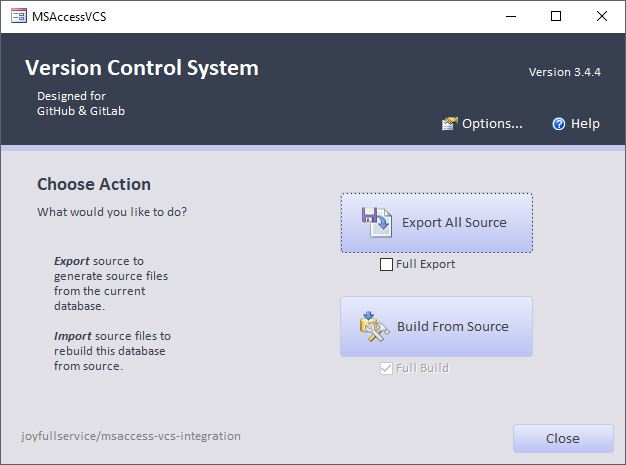
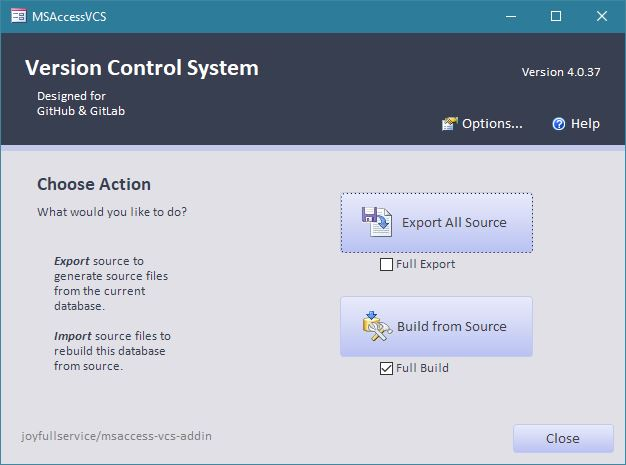
Update Wiki (#550)
* Update Wiki and screenshots to match current released version and add options.

* Add documentation for external database connections.

* Add MOTW note.

* Add missed checkboxes and details.

diff --git a/Wiki/Options.md b/Wiki/Options.md
@@ -1,5 +1,5 @@
 
-click **Options** to open the **Options dialog**. Internally options are stored in a `vcs-options.json` file in the path of the exported source code. Options are loaded and used when exporting to source files, or when building a project from source.
+Click **Options** to open the **Options dialog**. Internally options are stored in a `vcs-options.json` file in the path of the exported source code. Options are loaded and used when exporting to source files, or when building a project from source.
 
 ## General Tab
 ![General Options Tab](img/options-general.jpg)
@@ -32,29 +32,72 @@ Note that these options only determine what is *Exported* and saved to the JSON 
 ||*Absolute Path* |You may also use a full path name to a folder. I.e. `W:\Git\Projects\Vehicles Database` 
 ||*Placeholder* |In combination with the above options, you may also use a `%dbName%` [placeholder](https://github.com/joyfullservice/msaccess-vcs-integration/issues/139) to use the database filename in a custom path. I.e. `\src\%dbName%.src\`
 |**Use Fast Save**|**Default: On**|Major performance gain with small changes to large projects. This attempts to only export the objects that have changed since the last export. This especially helps to not have to export forms and reports if they have not changed.
-|**Sanitize Level**|**Default: Aggressive**|Set level for sanitize routines to remove noise. Sanitizing allows you to remove noise from your exported files. Turn off to export raw file outputs. Sanitization routines are checked to ensure most do not affect building of exported files.
-||*None (Off)* | Turn off sanitization, export raw files. These may not import properly, but they may be useful when trying to troubleshoot. <p>_**Note:** Files will still be converted to UTF-8 or System Codepage encoding depending on Access Version in this mode._ <p>**_NOTE:_ If you set Sanitize level to "*None (Off)*", none of the Sanitize Options (Sanitize Color, Strip out publish, etc.) will be used.**
-||*Basic*| Only basic sanitization to ensure reliable rebuilding of files.
-|| *Aggressive*| Remove most exported noise (GUIDs, the like). Removes object GUIDs, name maps, and other data that changes from build to build. (These values are recreated automatically when importing source files.) From a development perspective, these are more like binary artifacts that just add noise to the version control commits, reducing clarity on actual code changes.
-||*Advanced (Beta)*|Remove as much as possible. This may lead to unexpected changes upon rebuilding. Features that are still in testing or confirmed to be temperamental may be introduced here prior to being implemented. **_User beware!_**<p>
-|**Sanitize Colors**|**Default: Basic**|Removes color exports on forms where themes are used, or other situations where the color can be correctly set upon rebuild. These colors export differently in different machines, or different settings and are largely noise. <P> ***NOTE:* The most aggressive options may lead to unexpected color changes on forms!**
-|**Strip out Publish Option**|**Default: On**|Strips out some *Publish to Web* settings from source files that are irrelevant to most projects.
+|**Extract Theme Files**|**Default: Off**|Extract the contents of the `*.thmx` files. Microsoft Office Theme files `*.thmx` are actually zip files containing XML and other files that define the specifics of a theme. You can use Theme Files for form style and color consistency. If you are customizing a theme, you may wish to extract these files so your changes can be tracked in Version Control. <p> **_Note:_** _Extracting Theme files may create noise in your database due to slight variations in rendering machine to machine._
+|**Sanitize Level**|**Default: Standard**|Set level for sanitize routines to remove noise. Sanitizing allows you to remove noise from your exported files. Turn off to export raw file outputs. Sanitization routines are checked to ensure most do not affect building of exported files.
+||*None (Off)* | Turn off sanitization, export raw files. These may not import properly, but they may be useful when trying to troubleshoot. <p>_**Note:** Files will still be converted to UTF-8 or System Codepage encoding depending on Access Version in this mode._ <p>**_NOTE:_ If you set Sanitize level to "*None (Off)*", none of the Sanitize Options will be used.**
+||*Minimal*| Only basic sanitization to ensure reliable rebuilding of files.
+|| *Standard*| Remove most exported noise (GUIDs, the like). Removes object GUIDs, name maps, and other data that changes from build to build. (These values are recreated automatically when importing source files.) From a development perspective, these are more like binary artifacts that just add noise to the version control commits, reducing clarity on actual code changes.
+||*Extended*|Remove as much as possible. This may lead to unexpected changes upon rebuilding. Features that are still in testing or confirmed to be temperamental may be introduced here prior to being implemented. **_User beware!_**<p>
+|**Sanitize Colors**|**Default: Minimal**|Removes color exports on forms where themes are used, or other situations where the color can be correctly set upon rebuild. These colors export differently in different machines, or different settings and are largely noise. <P> ***NOTE:* The most aggressive options may lead to unexpected color changes on forms!**
 |**Save Printer Settings**|**Default: On**|Saves a copy of the print configuration for reports and forms. This is especially useful when you are using specific printer settings. The output is stored in human-readable json. By default, page orientation and paper size are saved with each report, but additional options are also available. <details><summary>Show Advanced Printer Options...</summary> ![Printer Settings Options Screen Image](img/options-printer-settings.jpg)<p></details>
  |**Save Query SQL**|**Default: On**|In addition to the Access object, this option exports a copy of just the SQL code from queries. I find this much more readable than the source of the Access Object when reviewing what I actually changed on the SQL side. (The Access object includes other information relating to the layout of the query designer.)
 |**Save Table SQL**|**Default: On**|In addition to the Access object, this creates a SQL statement like what you would use to create the table. Here again I find this easier to see at a glance what changed in the actual structure of the table between versions.
-|**Extract Theme Files**|**Default: Off**|Extract the contents of the `*.thmx` files. Microsoft Office Theme files `*.thmx` are actually zip files containing XML and other files that define the specifics of a theme. If you are customizing a theme, you may wish to extract these files so your changes can be tracked in Version Control.
-|**Use git integration**|**Default: Off** |Work in Progress, only part of dev at the moment.
+|**Format SQL**|**Default: On**|While exporting SQL for Tables and Queries attempt to format the SQL using common indentation and conventions. See [Issue #426](https://github.com/joyfullservice/msaccess-vcs-addin/issues/426) for some additional discussion and information.
+|**Split Layout from VBA**|**Default: On**|Split Forms and Reports into a layout and code files. This can improve readability and reduce code noise when developing code only changes. <p> **_Note:_** If you also select `Save Printer Settings` an additional printer setting `.json` file will be exported as well; this option is separate from printer exports. <p> **Note:** See [Split Files Wiki page](https://github.com/joyfullservice/msaccess-vcs-addin/wiki/Split-Files) for additional documentation on the feature and how to migrate to it if your source code did not start with this option set.
+||_On_|The layout and colors of Forms and Reports will be exported to a `.bas` file and the code components will be exported to `.cls` file.
+||_Off_|Forms and reports will be exported as a single `.bas` file.
 |**Run Sub Before Export**|**Default: [Blank]**|Run a VBA subroutine before exporting the source code. This can be used to clean up temporary data, mask sensitive information, or anything else you want to do. This will be called using  `Application.Run`.
 |**Run Sub After Export**|**Default: [Blank]**|Similar to the option above, this allows you to specify a VBA subroutine to run *after* exporting the source code.
+
+## Databases (External)
+![Databases Options Tab Image](img/options-Databases.jpg)
+
+The Databases Tab allows you to use this tool to export externally backend connected databases from MySQL or Microsoft SQL Server (MSSQL). This can allow new developers without other version control tools to track changes on the backend and "sync" them to front end tools.
+
+This tool is limited, and does not have the full featured tools of other Database tools such as SSMS.
+
+**This is an _EXPORT ONLY_ feature: this will not send data to your database.**
+
+*This tool only provides a 'quick export' fuction due to the significant time required to perform the SQL export. To perform a full export, delete the `\Databases\` folder in your VCS folder. Changes are tracked in the index, so you shouldn't miss anything.
+
+|Setting <img width = 175> |**Default** <p> *(Setting)*|Description
+|-|:-:|:-
+|**Database List**||Lists database connections which will be exported by this tool. Double click on database connection to edit.
+|**Delete**||Delete selected database connection.
+|**Edit**||Edit selected database connection information.
+|**Add**||Add a new database connection.
+
+
+### Database External Connection Editing
+![Databases Options Tab Image](img/options-Databases-Connection.jpg)
+
+|Setting <img width = 175> |**Default** <p> *(Setting)*|Description
+|-|:-:|:-
+|**Connection Name:**||Human readible name for the database connection. The Database Name is typical for this.
+|**Enabled**|**Default: On**|Export this connection. If disabled, this connection is skipped (not exported) when running an export operation.
+|**Use UTC Dates**|**Default: Off**|Use UTC Timestamps and dates when exporting SQL details. This can be very helpful when your developers are in disparate time zones.
+|**Database Type:**|**Default: Microsoft SQL Server**|The backend server type for the external database.
+||_Microsoft SQL Server_|Select this if your external database is hosted on a Microsoft SQL Server instance.
+||_MySQL Server_|Select this if your external database is hosted on a MySQL Server instance.
+|**Description:**||If you wish to provide additional context to the Connection Name, type it here. Examples might be "Production", or "Test", or "Staging1"
+|**ADO (OLE) Connection String:**||The ADO (OLE) Connection string. This needs to be an OLE connection string as this tool is built on the ADODB functions. The examples which populate automatically are based on linked tables in your database, and are generally ODBC connection strings. If you have an MSSQL type database backend, this tool can attempt to create a compliant OLE connection string.
+|**Save in .env file**|**Default: On**|Save the connection string (and passwords) in a `.env` file. <p>**NOTE: ensure the `.env` files are excluded from version control if you have a password string.**
+|**Attempt Conversion to ADO (OLE) String**|**Default: On**|Attempt to convert linked table string from ODBC to OLE.
+|**Filter for database objects (source file paths):**||Use this to exclude objects from export. An example might be that you do not want the code for a login check to be exported, or you do not want some views exported.
+
 
 ## Table Data
 ![Table Data Options Tab Image](img/options-table-data.jpg)
 
 The Table Data tab allows you to selectively include certain tables from which to include table ***data*** in version control. The *structure* of the tables is already being saved, but this gives you the additional option of saving the *data* itself.
 
-An example of where you might use this would be a table that defines options or settings in your database application. You might want to track when these settings change. Another example would be a `USysRibbons` table that defines the layout of a custom application ribbon.
+The dialog box shows tables in the database. If the column does not show an option in *Export As* the data is not exported for that table. The example screenshot shows the tables in the Addin.
+
+An example of where you might use this would be a table that defines options or settings in your database application. You might want to track when these settings change. Another example would be a `USysRibbons` table that defines the layout of a custom application ribbon. Note `USysRibbons` is stored by default.
 
 The concept here is that you are selecting the table from which you want to save data, choosing the format to use, and clicking Update to save the changes.
+
+**Note:** See [This FAQ](https://github.com/joyfullservice/msaccess-vcs-addin/wiki/FAQs#how-do-i-also-export-data-from-all-the-tables-in-my-database) for discussion on exporting all tables. Putting production data into version control may have significant PII/Cybersecurity/other consequences and is generally frowned upon.
 
 |Setting <img width = 175> |**Default** <p> *(Setting)*|Description
 |-|:-:|:-
@@ -63,11 +106,20 @@ The concept here is that you are selecting the table from which you want to save
 |**Show Other**|**Default: Off**|List table names that are saved in the options, but do not exist in the current database. You can also manually add table names to your `vcs-options.json` file. (Add a table through the interface first, and use the same syntax.)
 |**Selected Table**||This highlights which table you have selected to set the export format. To add a table that is not listed, click the [*Other...*](#table-data) link.
 |Selected Table: **<u>Other...</u>**||Click [*Other...*](#table-data) to enter a table name that doesn't exist in the database but you want to export if found.
-|**Data to Export**|**Default: Tab Delimited**|Select the format to use for the exported data.
+|**Export As**|**Default: Tab Delimited**|Select the format to use for the exported data.
 ||*Tab Delimited*|Separate values with tab character. This is a good format to use when importing to Microsoft Excel, or reading the values in Version Control files.
-||*XML Format*|Select this option for the most complete and robust representation of the data. It is harder to read in source files, but should import back in to accurate recreate the original data.
-||*No Data*|Don't save data for this table.
-|**Update**||Save output specification changes for the selected table. You should see the Save Data column update in the list of tables when you click the Update button.
+||*XML Format* (Suggested)|Select this option for the most complete and robust representation of the data. It is harder to read in source files, but should import back in to accurate recreate the original data.
+||*No Data* (BLANK) |Don't save data for this table.
+|**Other Table Name**||Enter a table name to directly save output specification changes for the table. You should see the Save Data column update in the list of tables when you click the Update button. See [Issue 250](https://github.com/joyfullservice/msaccess-vcs-addin/issues/250) for additional discussion on this feature.
+|**Export As**||Select the export format to export table.
+
+### Default Tables
+The following tables are added to the default list, but can be removed (if you desire...we strongly suggest you keep them).
+
+   | Table Name   | Type | Explanation  
+   |-|-|-
+   | `USysRegInfo` |System | Stores registry information about Access (such as installed tooling). Exports as _Tab Delimited_.
+   | `USysRibbons` |System | Stores custom ribbon information. Exports as _Tab Delimited_.
 
 **NOTE:** The following tables should not be added to the export list, as they are already handled by this tool elsewhere.
 
@@ -99,5 +151,6 @@ These affect your system at large; not just the currently open Access Project.
 |**Save as Default**|Save the current options as default for new projects. Anytime you export source and a `vcs-options.json` file does not already exist, it will use the default options you have specified.
 |**Restore Defaults**|In the current project (open database), restore options to default values based on saved system defaults.
 |**Clear Defaults**|Reset options to default the settings specified in the add-in source code. If you click this button, then the **Save as Default** button, it will reset all user customizations to the default options.
+|**Open Install Folder**|Opens the directory the Addin is installed in. This can be handy to verify installation location, especially if your environment requires you to install in a non-standard location. See [Installation](https://github.com/joyfullservice/msaccess-vcs-addin/wiki/Installation) for more information.
 |***Remove Add-In***
 |**Uninstall**|Uninstalls the add-in from your user profile, including all saved defaults and encryption keys. <p> [Click here for Install / Uninstall Instructions](Installation)

diff --git a/Wiki/Installation.md b/Wiki/Installation.md
@@ -1,8 +1,9 @@
 # Install
  1. Download the [latest **Version_Control_vX.X.X.zip**](https://github.com/joyfullservice/msaccess-vcs-integration/releases/latest).
  2. Extract `Version Control.accda` from the zip archive.
- 3. *(Optional)* Adjust install options (see below).
- 4. Click **Install Add-In**.
+ 3. Remove "Mark of the Web (MOTW)", if needed. See [this blog post](https://nolongerset.com/install-vcs-addin/) for additional information. <p>*NOTE:* MOTW does not always get set on files, and won't if you extract with 7Zip.
+ 4. *(Optional)* Adjust install options (see below).
+ 5. Click **Install Add-In**.
 
 ![Install Form Image](img/install.jpg)
 
@@ -11,8 +12,18 @@
 
 |Setting <img width = 175> |**Default** <p> *(Setting)*|Description
 |-|:-:|:-
-|**Trust Add-In Folder**|**Default: On**|During installation, the VCS Addin install folder will be added as a trusted location in Microsoft Access/Office. This allows Access to load the Add-In correctly in some protected setups, and will enable faster loading in others. The install location is `C:\Users\%username%\AppData\Roaming\MSAccessVCS\`
-|**Open after install to trust add-in file**|**Default: Off**|In some protected computing environments (I.e. Government, Banking), the Add-In must be opened from the install location to be properly trusted. This option will open the add-in file immediately after install, and give you the opportunity to trust the file.
+|**Trust Add-In Folder**|**Default: On**|During installation, the VCS Addin install folder will be added as a trusted location in Microsoft Access/Office. This allows Access to load the Add-In correctly in some protected setups, and will enable faster loading in others. The default install location is `C:\Users\%username%\AppData\Roaming\MSAccessVCS\`
+|**Advanced Options**|**Default: Off**|In some protected computing environments you may need to select additional options. See below for more details.
+
+![Install Form Image](img/install-AdvancedOptions.jpg)
+
+|Setting <img width = 175> |**Default** <p> *(Setting)*|Description
+|-|:-:|:-
+|**Use Ribbon Addin**|**Default: On**|With Version 4 and up the addin and most features can be directly launched with a custom ribbon. 
+||_On_|Install the ribbon and load to Access's ribbon. The ribbon will automatically load when Access loads, making launching version control much simpler.
+||_Off_|Do not install the Ribbon. You can still load the Addin after installation by going to [Database Tools]>[Add-Ins]>[VCS Open] or [VCS Export All Source].
+|**Open add-in after installing to trust the add-in file**|**Default: Off**|In some protected computing environments (I.e. Government, Banking), the Add-In must be opened from the install location to be properly trusted. This option will open the add-in file immediately after install, and give you the opportunity to trust the file.
+|**Install Folder**||By default, the addin will be installed to `C:\Users\%username%\AppData\Roaming\MSAccessVCS\`. If you need to select an alternate location for installation due to your development environment, security settings, etc., you can change the installation Folder. <p> **WARNING: You MUST _completely uninstall_ the Addin prior to changing the installation folder. Failure to do this may lead to unexpected issues and difficulty removing the addin.**
 
 # Uninstall
 [Click here for Uninstall Instructions](<Options#Remove Add-In>)

diff --git a/Wiki/Supported-Objects.md b/Wiki/Supported-Objects.md
@@ -66,7 +66,7 @@ The *Testing* column indicates whether a test item and testing code has been cre
 |Relationships            |✔|✔|clsDbRelation
 |Nav. Pane Groups         |✔|✔|clsDbNavPaneGroup
 |Embedded Office Theme(s) |✔|✔|clsDbTheme
-|CommandBars              |||
+|CommandBars              |❌<p>(yet)|❌<p>(yet)|See [Discussion 478](https://github.com/joyfullservice/msaccess-vcs-addin/discussions/478) for more details.
 |💼 **VBE PROJECT**
 |Project Properties       |✔|✔|clsDbVbeProject
 |Compilation Arguments    |✔|✔|clsDbVbeProject
